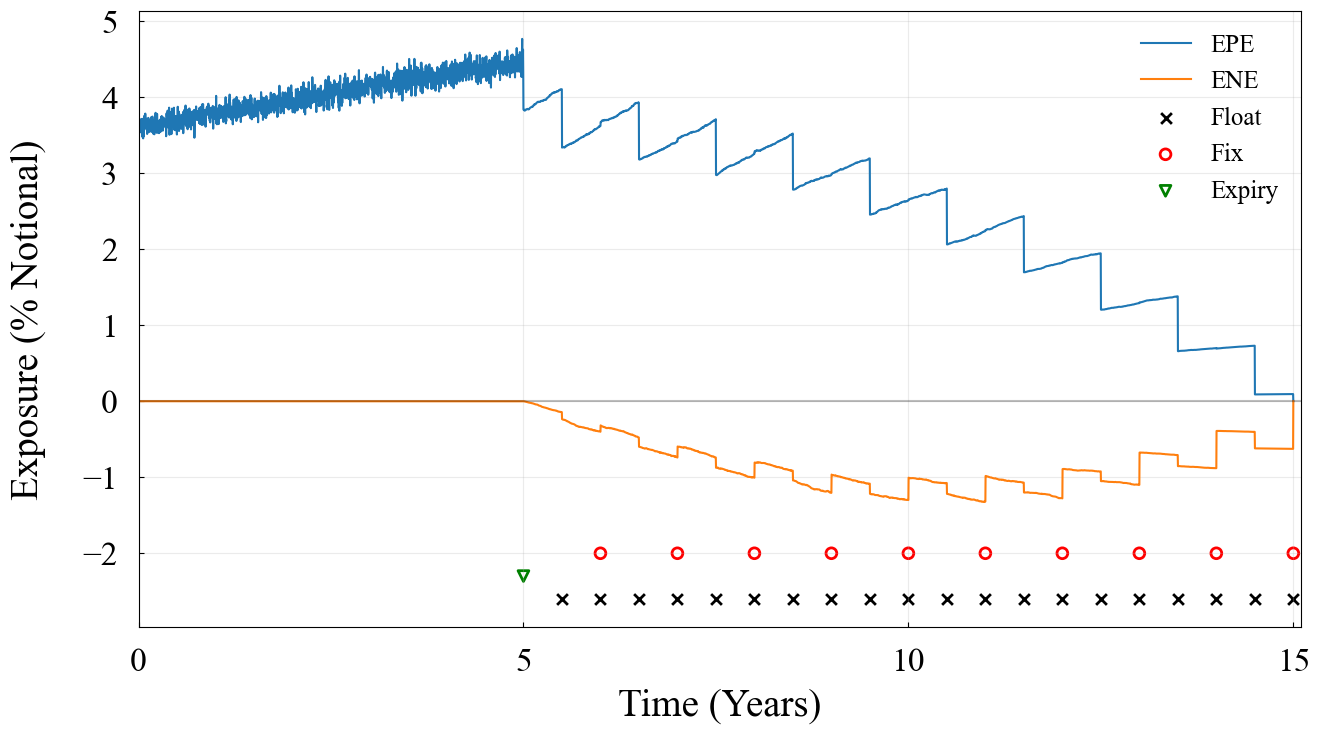
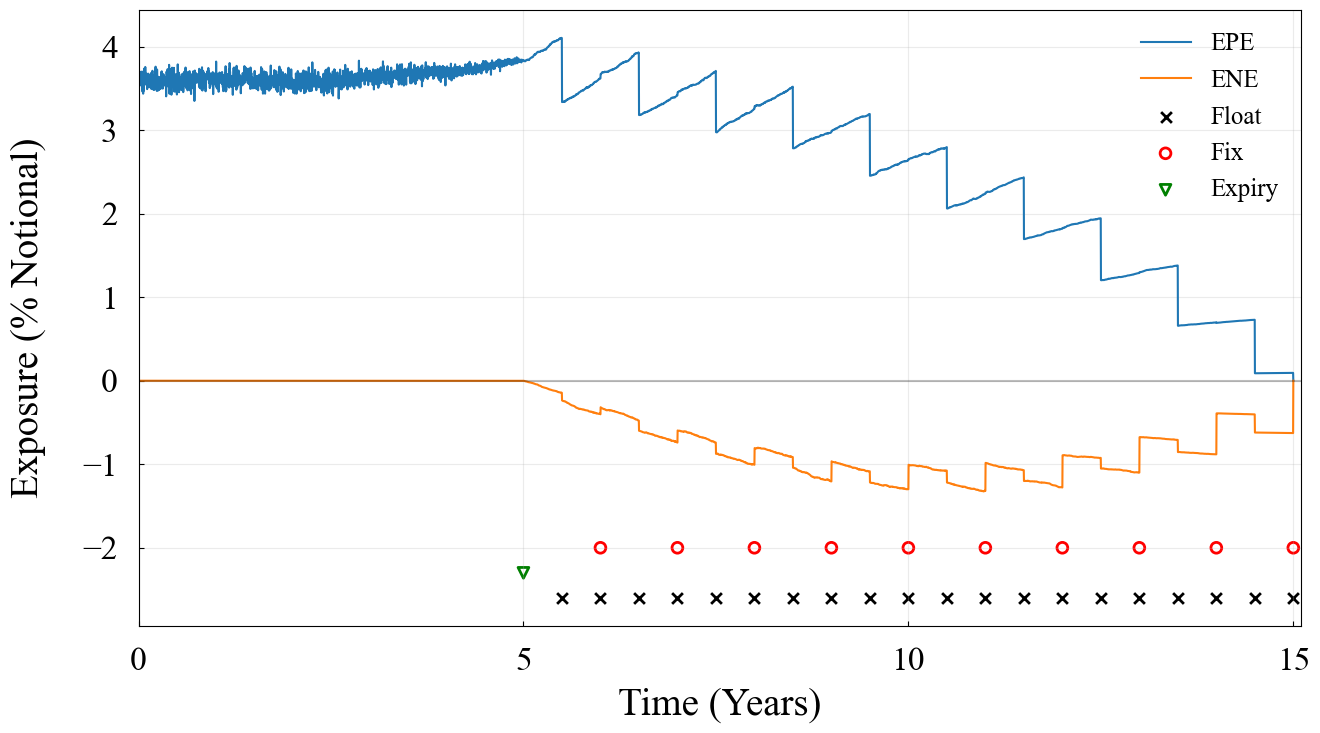
ns

diff --git a/NelsonSiegel.py b/NelsonSiegel.py
@@ -158,7 +158,7 @@ class NelsonSiegel(Dynamic):
         
         sum = 0
 
-        rate = self.oneStep(0, self.Xt, Te)
+        rate = self.oneStep(0, initRate, Te-t)
         if t < Te:
 
             for Si in S[1::]:
